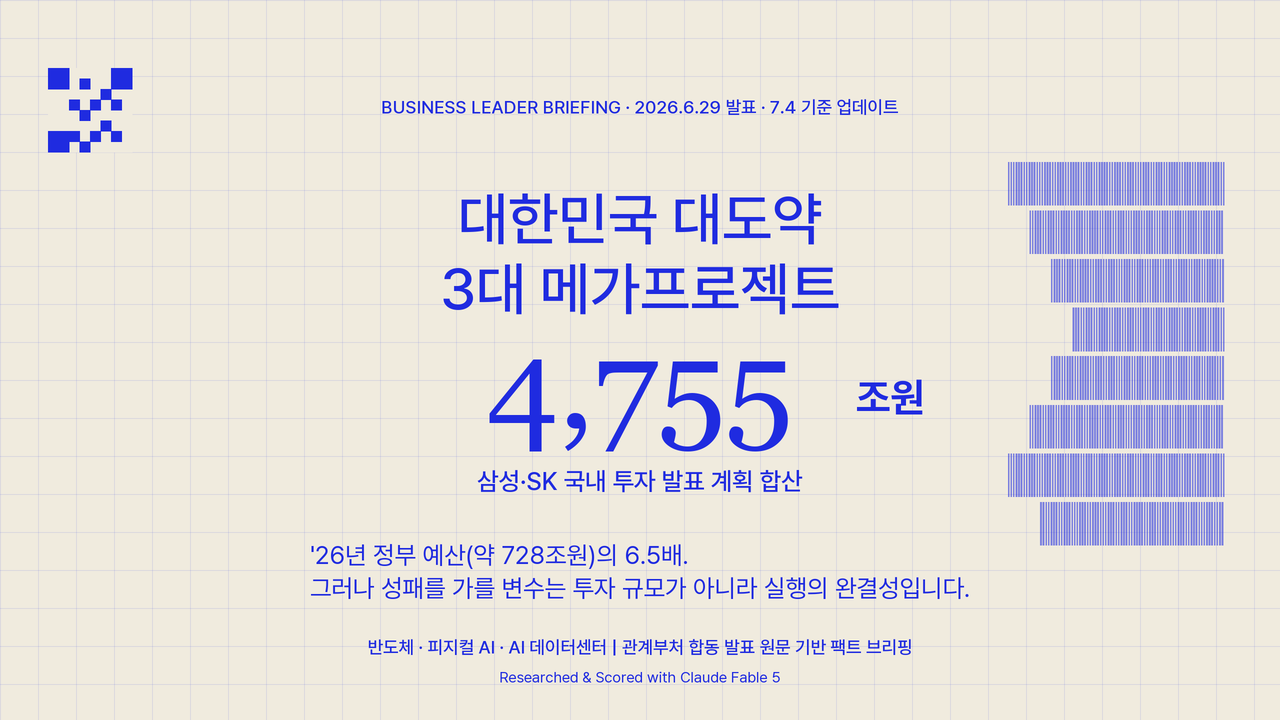
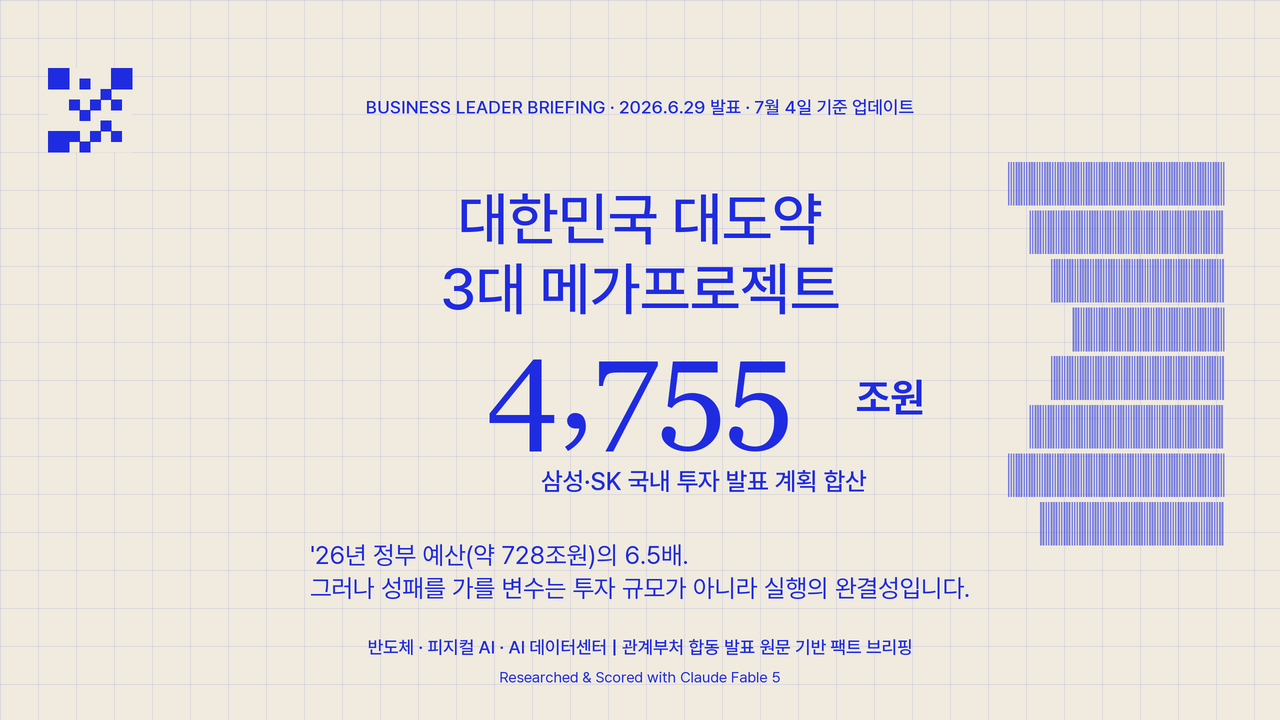
Polish briefing copy and thumbnail

Changed region(s): [[0.2812, 0.1222, 0.7188, 0.1833], [0.375, 0.6417, 0.6875, 0.7028]]

diff --git a/make_thumbnail.py b/make_thumbnail.py
@@ -37,8 +37,8 @@ def text(draw, pos, value, fnt, fill=INK, anchor=None, spacing=0):
     draw.text(xy(pos), value, font=fnt, fill=fill, anchor=anchor, spacing=spacing * SCALE)
 
 
-def centered_text(draw, y, value, fnt, fill=INK, spacing=0):
-    text(draw, (640, y), value, fnt, fill=fill, anchor="ma", spacing=spacing)
+def centered_text(draw, y, value, fnt, fill=INK, spacing=0, x=640):
+    text(draw, (x, y), value, fnt, fill=fill, anchor="ma", spacing=spacing)
 
 
 def draw_grid(draw):
@@ -104,7 +104,7 @@ def main():
     centered_text(
         draw,
         96,
-        "BUSINESS LEADER BRIEFING · 2026.6.29 발표 · 7.4 기준 업데이트",
+        "BUSINESS LEADER BRIEFING · 2026.6.29 발표 · 7월 4일 기준 업데이트",
         font(PRETENDARD_MEDIUM, 18),
         fill=INK,
     )
@@ -115,7 +115,7 @@ def main():
     text(draw, (640, 384), "4,755", font(GEORGIA, 128), fill=INK, anchor="mm")
     text(draw, (856, 397), "조원", font(PRETENDARD_BOLD, 40), fill=INK, anchor="lm")
 
-    centered_text(draw, 466, "삼성·SK 국내 투자 발표 계획 합산", font(PRETENDARD_MEDIUM, 25), fill=INK_80)
+    centered_text(draw, 466, "삼성·SK 국내 투자 발표 계획 합산", font(PRETENDARD_MEDIUM, 25), fill=INK_80, x=704)
     centered_text(
         draw,
         540,